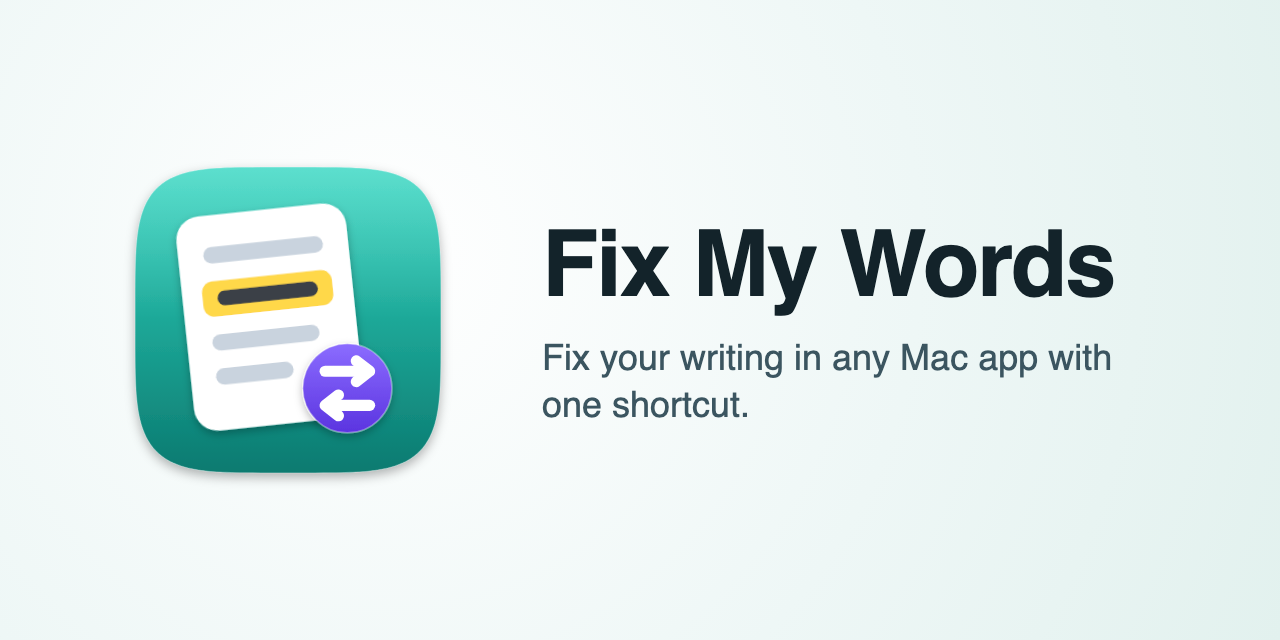
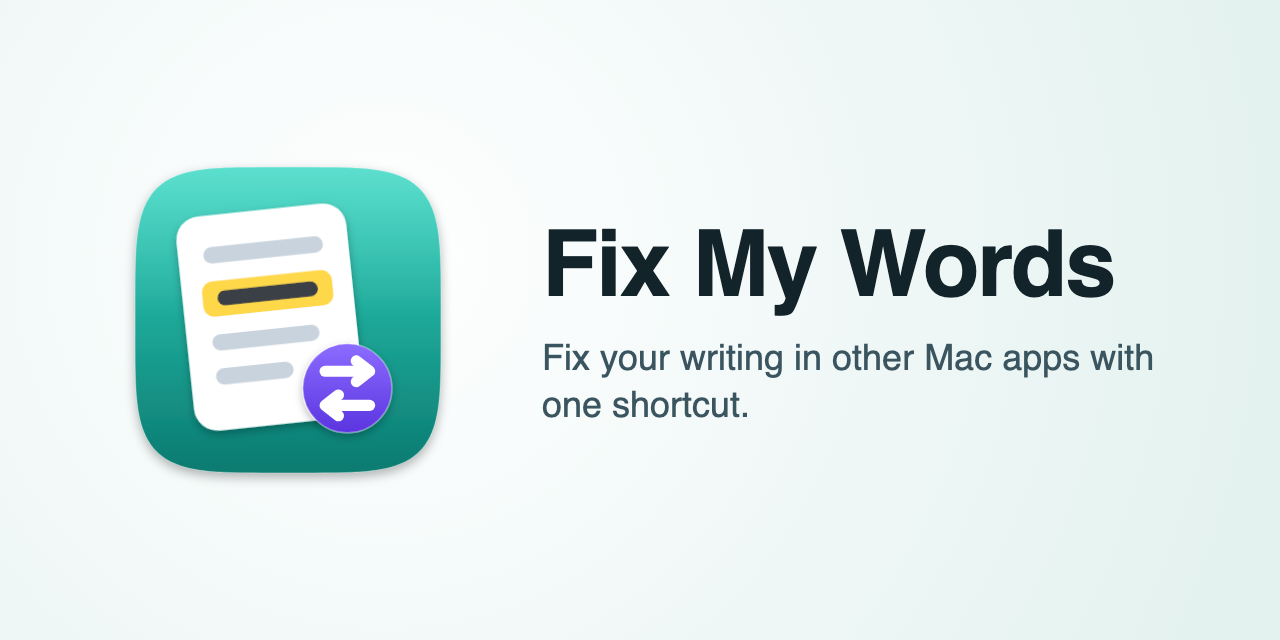
Match the link-preview line to the README and add its source
docs/images/icon/social-preview.html is the source of
docs/images/social-preview.png, and render-icon.sh now renders it.

Changed region(s): [[0.6562, 0.5312, 0.9062, 0.5938]]

diff --git a/docs/images/icon/social-preview.html b/docs/images/icon/social-preview.html
@@ -1,0 +1,11 @@
+<!doctype html>
+<!-- Source for docs/images/social-preview.png (1280x640). render-icon.sh renders it. -->
+<html><head><meta charset="utf-8"><style>
+body{margin:0;width:1280px;height:640px;display:flex;align-items:center;justify-content:center;gap:64px;
+background:radial-gradient(circle at 30% 40%,#FFFFFF 0%,#EEF7F6 55%,#E2F1EE 100%);font-family:-apple-system,"SF Pro Display",Helvetica,sans-serif;color:#13232A}
+h1{margin:0 0 18px;font-size:92px;font-weight:700;letter-spacing:-2px}
+p{margin:0;font-size:36px;color:#3B5560;max-width:640px;line-height:1.3}
+</style></head><body>
+<img src="app-icon.svg" width="380" height="380" alt="">
+<div><h1>Fix My Words</h1><p>Fix your writing in other Mac apps with one shortcut.</p></div>
+</body></html>
